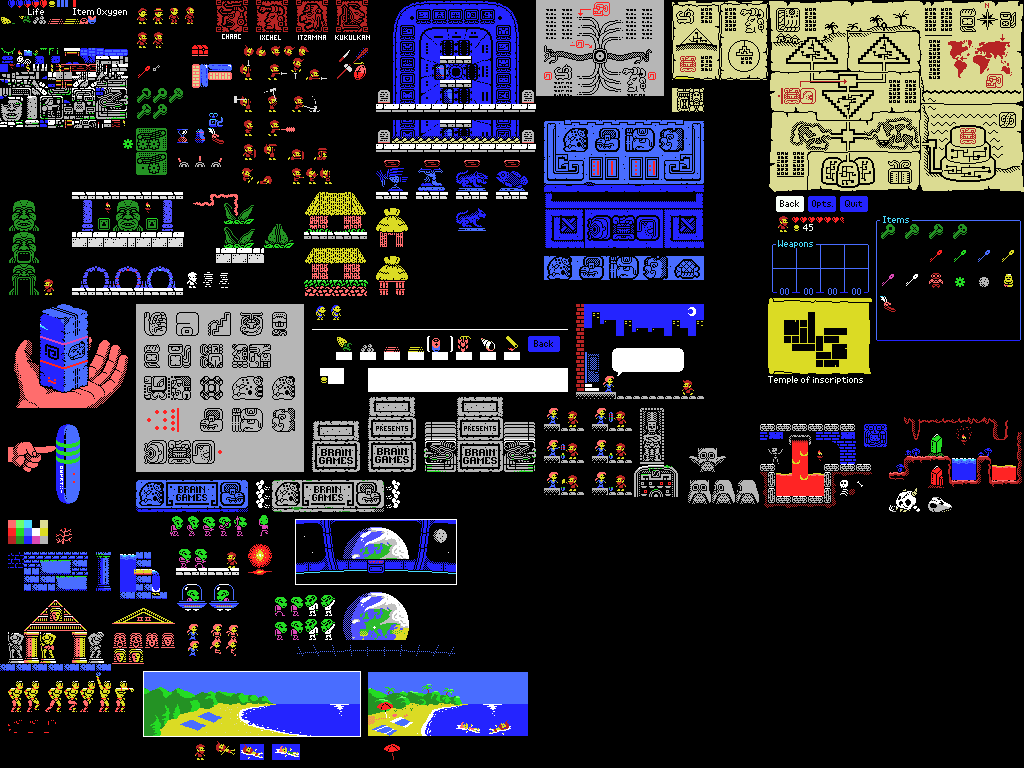
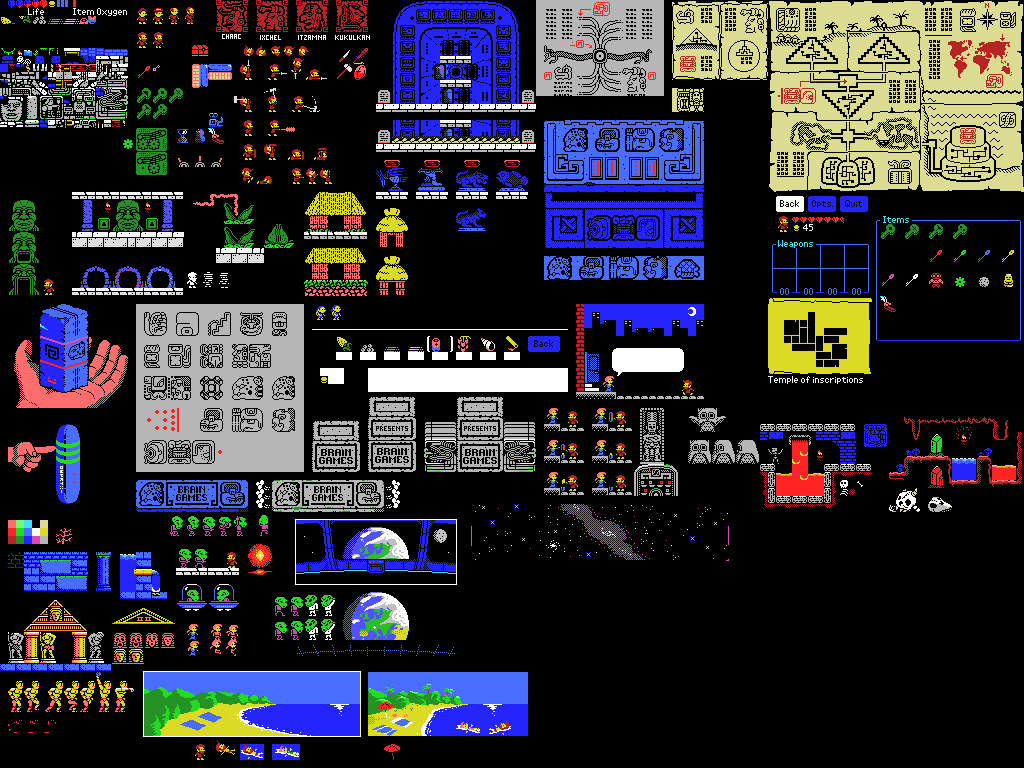
started work towards updating the game start screen with the star alignment theme

Changed region(s): [[0.625, 0.5312, 0.75, 0.6562], [0.5312, 0.6562, 0.625, 0.7188]]

diff --git a/java/src/xspelunker2/Text.java b/java/src/xspelunker2/Text.java
@@ -118,9 +118,9 @@ public class Text {
         addLineSafe(lines_with_constant_page3, "normal", "DIFFICULTY_NORMAL", 6);
         addLineSafe(lines_with_constant_page3, "hard", "DIFFICULTY_HARD", 6);
         addLineSafe(lines_with_constant_page3, "hardest", "DIFFICULTY_HARDEST", 6);
-        addLineSafe(lines_with_constant_page3, "Name the world you will play in, to determine its characteristics.", "GAMESTART_CONSOLE_MSG1", 90);
-        addLineSafe(lines_with_constant_page3, "Each world is identified by its name. Choose wisely! The world name determines the random seed, and difficulty...", "GAMESTART_CONSOLE_MSG2", 90);
-        addLineSafe(lines_with_constant_page3, "Use the same name to play again on the same world. You can use letters, spaces and the numbers 0 - 4.", "GAMESTART_CONSOLE_MSG3", 90);
+        addLineSafe(lines_with_constant_page3, "I am Itzanma, ruler of the sky! I rule over many worlds with different skies, each with their own name. Which of my worlds do you want?", "GAMESTART_CONSOLE_MSG1", 120);
+//        addLineSafe(lines_with_constant_page3, "Each world is identified by its name. Choose wisely! The world name determines the random seed, and difficulty...", "GAMESTART_CONSOLE_MSG2", 90);
+//        addLineSafe(lines_with_constant_page3, "Use the same name to play again on the same world. You can use letters, spaces and the numbers 0 - 4.", "GAMESTART_CONSOLE_MSG3", 90);
         addLineSafe(lines_with_constant_page3, "Creating world...", "GAMESTART_CONSOLE_MSG4", 90);
         addLineSafe(lines_with_constant_page3, "The gods do not like this name. Try another one!", "GAMESTART_CONSOLE_MSG5", 90);
         

diff --git a/java/src/xspelunker2/Title.java b/java/src/xspelunker2/Title.java
@@ -10,6 +10,7 @@ import java.util.ArrayList;
 import java.util.List;
 import javax.imageio.ImageIO;
 import util.ConvertPatternsToAssembler;
+import util.Pair;
 import util.Tiled;
 import util.Z80Assembler;
 import util.ZX0Wrapper;
@@ -83,6 +84,11 @@ public class Title {
 
             Z80Assembler.dataToBinary(data, outputPath + ".bin");
             ZX0Wrapper.main(outputPath+".bin", outputPath+".zx0", true, false);
+
+            Pair<BufferedImage,int[][]> nametable = Map.extractUniqueTiles(
+                    "data/gamestart-starmap.png", "data/gamestart-starmap-tiles.png",
+                    0, 7);
+            // ...
         }
 
         generateSpriteData("data/inventory-sprites.png", "src/autogenerated/gamestart-sprites");

diff --git a/java/src/xspelunker2/GenerateTiles.java b/java/src/xspelunker2/GenerateTiles.java
@@ -43,7 +43,7 @@ public class GenerateTiles {
         extractTiles("data/shop-tiles.png", "src/autogenerated/shop-tiles", 0, 16*8);
         extractTiles("data/braingames.png", "src/autogenerated/braingames", 0, 16*8);
         extractAllTiles("data/calendar-explosion-tiles.png", "src/autogenerated/calendar-explosion-tiles");
-        
+
         Pair<BufferedImage,int[][]> tmp = Map.extractUniqueTiles("data/puzzlebox.png", "data/puzzlebox-tiles-unique.png", 0, 21);
         extractAllTiles("data/puzzlebox-tiles-unique.png", "src/autogenerated/puzzlebox-tiles");
         {
